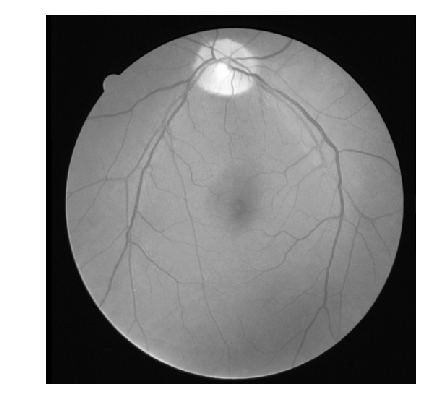
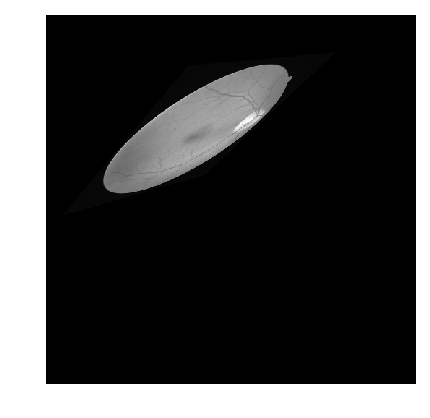
's'

diff --git a/777777_cv/b.py b/777777_cv/b.py
@@ -28,19 +28,16 @@ print('===== Done READING DATA ========')
 
 
 
-M = cv2.getRotationMatrix2D((512/2,512/2),90,1)
-print(M)
 
 transform_matrix = np.array([
-    [np.cos(np.pi/2),np.sin(np.pi/2), (1-np.cos(np.pi/2))*256-np.sin(np.pi/2)*256 ],
-    [-np.sin(np.pi/2),np.cos(np.pi/2),np.sin(np.pi/2)*256+(1-np.cos(np.pi/2))*256  ],
+    [1,-1/2,300 ],
+    [0,0.9,100],
+    [0.001,0.001,1.5],
 ]).astype(np.float32)
-print(transform_matrix)
-# transform_matrix = cv2.getRotationMatrix2D((512/2,512/2),90,1)
 
 
 for x in range(len(one)):
-    temp = cv2.warpAffine(one[x,:,:],transform_matrix,(512,512))
+    temp = cv2.warpPerspective(one[x,:,:],transform_matrix,(512,512))
     plt.axis('off')
     plt.imshow(temp,cmap='gray')
     plt.savefig(str(x) + '.png',bbox_inches='tight')
@@ -107,6 +104,18 @@ for x in range(len(one)):
     # plt.show()
 
 # 5. Rotation
+transform_matrix = np.array([
+    [np.cos(np.pi/2),np.sin(np.pi/2), (1-np.cos(np.pi/2))*256-np.sin(np.pi/2)*256 ],
+    [-np.sin(np.pi/2),np.cos(np.pi/2),np.sin(np.pi/2)*256+(1-np.cos(np.pi/2))*256  ],
+]).astype(np.float32)
+
+
+for x in range(len(one)):
+    temp = cv2.warpAffine(one[x,:,:],transform_matrix,(512,512))
+    plt.axis('off')
+    plt.imshow(temp,cmap='gray')
+    plt.savefig(str(x) + '.png',bbox_inches='tight')
+    # plt.show()
 
 
 # 6. Homogeneous
